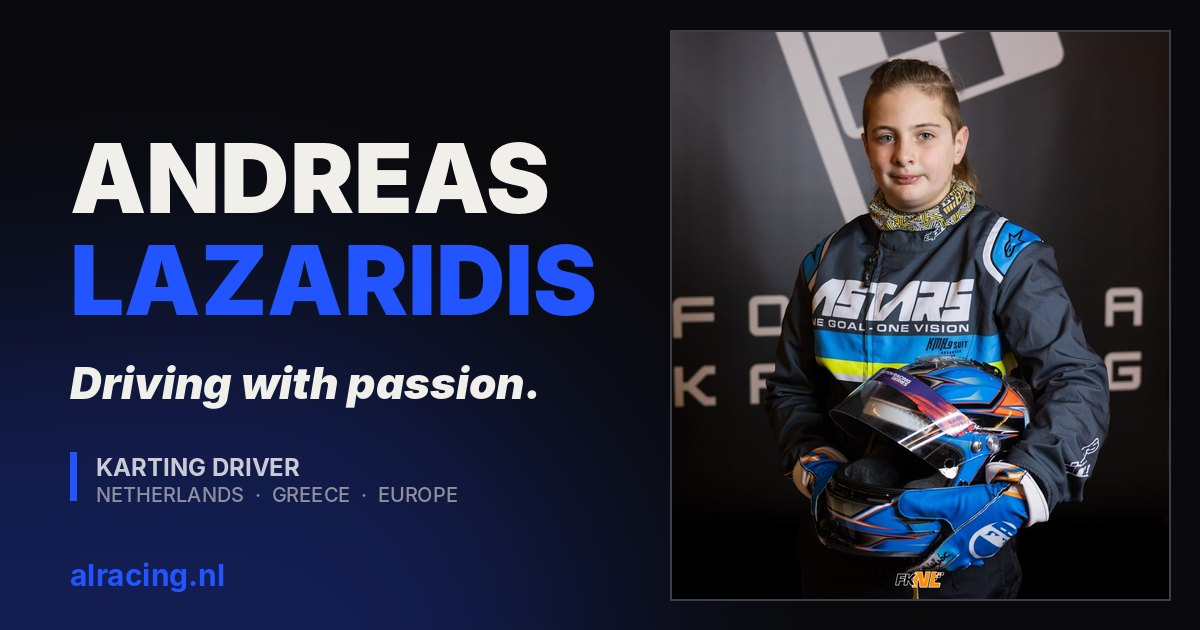
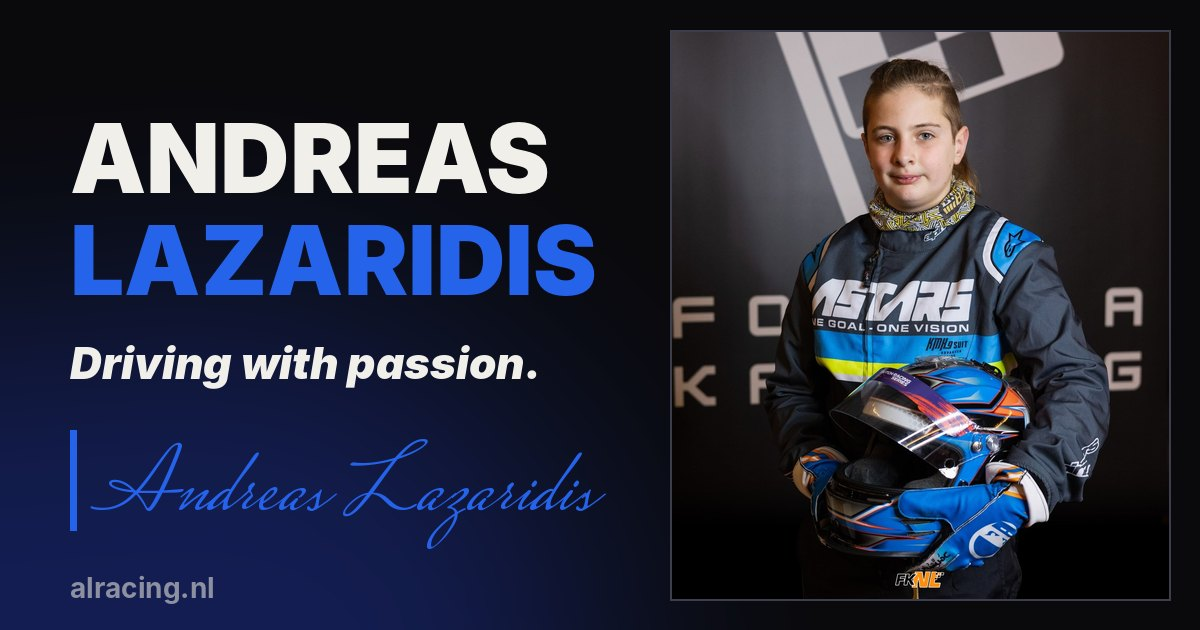
Hero photo caption: Karting driver / Netherlands · Greece · Europe; link preview image with signature
Claude-Session: https://claude.ai/code/session_01YEZWHQo8wGZtFDVTKB53sb

diff --git a/index.html b/index.html
@@ -41,8 +41,7 @@
 <div class="sig" aria-label="Andreas Lazaridis">Andreas Lazaridis</div></blockquote>
 <div class="cta"><a class="btn" data-mail href="#">Work together</a><a class="btn ghost" href="mediakit.pdf">View media kit</a><button type="button" class="btn ghost" data-place>Sponsor placements</button></div></div>
 <div class="portrait"><img src="images/portrait.jpg" alt="Andreas Lazaridis holding his helmet" fetchpriority="high" decoding="async" onerror="this.style.display='none'">
-<div class="mantra">One goal.<br>One vision.</div>
-<div class="loc mono">Netherlands<br>Greece · Europe</div></div></div>
+<div class="mantra">Karting driver<span class="mono">Netherlands · Greece · Europe</span></div></div></div>
 
 <div class="strip">
 <div class="next last" id="last" hidden><div><span class="mono">Last race</span><h3 id="lName"></h3><small id="lMeta"></small></div>

diff --git a/style.css b/style.css
@@ -1712,7 +1712,6 @@ a.sp:focus-visible img {
   .hero .cta { grid-column: 1; grid-row: 4; margin-top: 32px; }
   .hero .portrait { grid-column: 2; grid-row: 1 / 5; aspect-ratio: auto; align-self: stretch; min-height: 0; }
   .hero .portrait img { position: absolute; inset: 0; object-position: 50% 22%; }
-  .hero .portrait .loc { bottom: auto; top: 18px; }
   .hero .portrait::after { inset: 40% 0 0; }
 }
 
@@ -1924,3 +1923,11 @@ td.r.r1, td.r.r2, td.r.r3 {
 .legal code { font: 500 13px var(--mono); background: rgba(255,255,255,.06); padding: 1px 6px; border-radius: 3px; }
 .legal .updated { color: var(--muted); margin: 0 0 24px; }
 .legal .back { margin-top: 40px; }
+
+.mantra span {
+  display: block;
+  margin-top: 10px;
+  font-size: 12px;
+  letter-spacing: .14em;
+  color: #d8dae3;
+}
